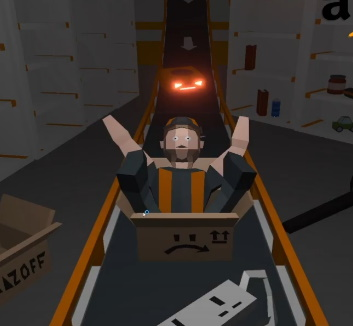
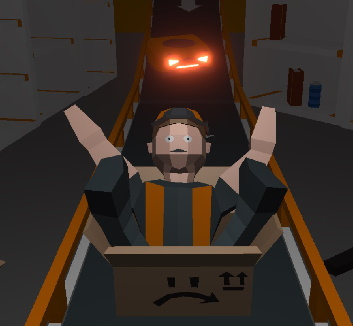
Biggest portfolio hack ever

diff --git a/index.html b/index.html
@@ -41,48 +41,79 @@
    <div id="main">
     <div class="inner">
      <header>
-      <h1>Oliver Hewison</h1>
-      <p>I am a generalist game programmer with 5 years of independent and professional experience, and a focus on Tools Programming.<br>Below, you can see a small selection of projects that I have worked on.</p>
-      <center><iframe width=50% height=380 src="https://www.youtube.com/embed/AJnnXS-TbDo" title="YouTube video player" frameborder="0" allow="accelerometer; autoplay; clipboard-write; encrypted-media; gyroscope; picture-in-picture" allowfullscreen></iframe></center>
+      <a href="#"><h1>Oliver Hewison</h1></a>
+      <p>
+        I am a variety programmer, currently working on an unannounced title at <a href="https://www.fridaysundae.com/" target="_blank">Friday Sundae Studio</a>.<br>
+        I primarily write Systems & Tools for Unity, and also enjoy a hint of Engine & Graphics code on the side.<br>
+        This is my website and portfolio, where you can see some of my past and current personal projects.
+      </p>
      </header>
-     <section class="tiles">
      
-    
-    <article>
-   	<span class="image">
-   	 <img src="images/portfolio/earth_streamer.gif" alt="" />
-   	</span>
-   	<a href="https://www.youtube.com/watch?v=BgwN9NRJbtc&t=1s" target="_blank">
-   	 <h2>Earth Streamer</h2>
-   	 <div class="content">
-   	  <p>Dynamically streaming OpenStreetMap and NASA data in real-time for a flight simulator.</p>
-   	 </div>
-   	</a>
-   	</article>
-    
-    <article>
-   	<span class="image">
-   	 <img src="images/portfolio/kojima.gif" alt="" />
-   	</span>
-   	<a href="#">
-   	 <h2>Kojima Wars</h2>
-   	 <div class="content">
-   	  <p>A modern reimagining of Herzog Zwei.<br>Made with a team of 40+ in Unity.<br>My roles include bespoke editor tools programming, shader programming, and environment art.</p>
-   	 </div>
-   	</a>
-   	</article>
-   	
+     <h2>Global Game Jam (2019-2023) - 48h</h2>
+     <section class="tiles">
       <article>
-       <span class="image">
-        <img src="images/portfolio/level_completability.jpg" alt="" />
-       </span>
-       <a href="https://github.com/olihewi/CompletabilityDetection" target="_blank">
-        <h2>Level Completability Detection</h2>
+        <span class="image"><img src="images/portfolio/rootvegroll.jpg"/></span>
+        <a href="https://olihewi.itch.io/root-veg-roll" target="_blank">
+        <h2><img src="images/portfolio/rootvegroll_logo.png" alt="Root Veg Roll"/></h2>
         <div class="content">
-         <p>Bespoke Unity Editor tools designed for rapid level prototyping, completability detection, and pathfinding.</p>
+          <p>Maniacally roll various root vegetables through a kitchen full of obstacles to escape through the window!<br><b>Play in your browser on itch.io!</b></p>
         </div>
-       </a>
+        </a>
       </article>
+      <article>
+        <span class="image"><img src="images/portfolio/vampireshangover.jpg"/></span>
+        <a href="https://olihewi.itch.io/vampires-hangover" target="_blank">
+        <h2><img src="images/portfolio/vampireshangover_logo.png" alt="Vampire's Hangover"/></h2>
+        <div class="content">
+          <p>A drunken vampire comes home to all of his hideous pets escaping their cages! Solve puzzles to put them back and get a good day's sleep.<br><b>Play in your browser on itch.io!</b></p>
+        </div>
+        </a>
+      </article>
+      <article>
+        <span class="image"><img src="images/portfolio/amazoff.jpg"/></span>
+        <a href="https://olihewi.itch.io/amazoff-lost-and-found" target="_blank">
+        <h2><img src="images/portfolio/amazoff_logo.png" alt="Amazoff Lost & Found"/></h2>
+        <div class="content">
+          <p>Welcome to the Amazoff Customer Fulfilment Centre! There's been a shift of management, bodies moving in and out, but that's above your paygrade anyway.<br><b>Play in your browser on itch.io!</b></p>
+        </div>
+        </a>
+      </article>
+      <article>
+        <span class="image"><img src="images/portfolio/flynnstarchad.jpg"/></span>
+        <a href="https://olihewi.itch.io/flynn-starchad" target="_blank">
+        <h2><img src="images/portfolio/flynnstarchad_logo.png" alt="Flynn Starchad"/></h2>
+        <div class="content">
+          <p>Blast yourself around broken-down spaceships using the recoil of Flynn's Grepair Gun, alternating shots of destruction and repair pellets to fix ships.<br><b>Play in your browser on itch.io!</b></p>
+        </div>
+        </a>
+      </article>
+     </section>
+     
+     <h2>UWE - Games Technology (2019-2022)</h2>
+     <section class="tiles">
+    
+      <article>
+        <span class="image"><img src="images/portfolio/earth_streamer.png" alt="" /></span>
+        <a href="https://www.youtube.com/watch?v=BgwN9NRJbtc&t=1s" target="_blank">
+        <h2><img src="images/portfolio/earthstreamer_logo.png" alt="Earth Streamer"/></h2>
+        <div class="content">
+          <p>Dynamically streaming OpenStreetMap and NASA data in real-time for a flight simulator.</p>
+        </div>
+        </a>
+      </article>
+      
+      <article>
+        <span class="image">
+        <img src="images/portfolio/kojimawars.jpg" alt="" />
+        </span>
+        <a href="#">
+        <h2><img src="images/portfolio/kojimawars_logo.png" alt="Root Veg Roll"/></h2>
+        <div class="content">
+          <p>A modern reimagining of Herzog Zwei.<br>Made with a team of 40+ in Unity.<br>My roles include bespoke editor tools programming, shader programming, and environment art.</p>
+        </div>
+        </a>
+      </article>
+   	
       
       <!-- <article>
        <span class="image">
@@ -98,10 +129,10 @@
       
       <article>
        <span class="image">
-        <img src="images/portfolio/super_funky_ball.gif" alt="" />
+        <img src="images/portfolio/super_funky_ball.jpg" alt="" />
        </span>
        <a href="https://github.com/olihewi/SuperFunkyBall" target="_blank">
-        <h2>Super Funky Ball</h2>
+        <h2><img src="images/portfolio/superfunkyball_logo.png" alt="Super Funky Ball"/></h2>
         <div class="content">
          <p>A Monkey Ball clone, built in DirectX.<br>Features a physics engine, data-driven level loading, and a rendering pipeline.</p>
         </div>
@@ -110,10 +141,10 @@
 	  
 	  <article>
    	<span class="image">
-   	 <img src="images/portfolio/spellcasters.png" alt="" />
+   	 <img src="images/portfolio/spellcasters.jpg" alt="" />
    	</span>
    	<a href="#">
-   	 <h2>Spellcasters</h2>
+        <h2><img src="images/portfolio/spellcasters_logo.png" alt="Spellcasters"/></h2>
    	 <div class="content">
    	  <p>A custom hexagon-based Visual Programming Language, used as a Gameplay Mechanic to teach game programming concepts to non-coders.</p>
    	 </div>
@@ -147,17 +178,29 @@
       
       <article>
        <span class="image">
-        <img src="images/portfolio/netscape.gif" alt="" />
+        <img src="images/portfolio/netscape.jpg" alt="" />
        </span>
        <a href="https://github.com/olihewi/NetScape" target="_blank">
-        <h2>NetScape</h2>
+        <h2><img src="images/portfolio/netscape_logo.png" alt="NetScape"/></h2>
         <div class="content">
          <p>A 4-player multiplayer top-down arena shooter in OpenGL / C++.<br>My roles included the creation of a data-driven level editor, custom input system, and camera system.</p>
         </div>
        </a>
       </article>
       
-      <article>
+      <!--<article>
+       <span class="image">
+        <img src="images/portfolio/level_completability.jpg" alt="" />
+       </span>
+       <a href="https://github.com/olihewi/CompletabilityDetection" target="_blank">
+        <h2>Level Completability Detection</h2>
+        <div class="content">
+         <p>Bespoke Unity Editor tools designed for rapid level prototyping, completability detection, and pathfinding.</p>
+        </div>
+       </a>
+      </article>-->
+      
+      <!--<article>
        <span class="image">
         <img src="images/portfolio/super_shmup_maker.jpg" alt="" />
        </span>
@@ -167,7 +210,7 @@
          <p>A Data-Driven DirectX game engine written in C++, allowing designers to create their own shoot-'em-up games.</p>
         </div>
        </a>
-      </article>
+      </article>-->
       
       <!-- <article>
        <span class="image">
@@ -181,7 +224,7 @@
        </a>
       </article> -->
       
-      <article>
+      <!--<article>
        <span class="image">
         <img src="images/portfolio/connect_four.gif" alt="" />
        </span>
@@ -191,7 +234,7 @@
          <p>An online multiplayer C++ Connect Four game with online lobbies, custom gamemodes and AI play.</p>
         </div>
        </a>
-      </article>
+      </article>-->
       
       <!-- <article>
        <span class="image">
@@ -207,10 +250,10 @@
       
       <article>
        <span class="image">
-        <img src="images/portfolio/blocky.gif" alt="" />
+        <img src="images/portfolio/blocky.jpg" alt="" />
        </span>
        <a href="https://github.com/olihewi/blocky-unity" target="_blank">
-        <h2>Blocky</h2>
+        <h2><img src="images/portfolio/blocky_logo.png" alt="Blocky"/></h2>
         <div class="content">
          <p>A highly data-driven voxel terrain generation framework for Unity and Godot.</p>
         </div>

diff --git a/assets/css/main.css b/assets/css/main.css
@@ -2734,9 +2734,12 @@ input, select, textarea {
 				opacity: 1;
 			}
 
-		* + .tiles {
+		/* + .tiles {
 			margin-top: 2em;
-		}
+		}*/
+    .tiles + * {
+      margin-top: 2em;
+    }
 
 		body.is-preload .tiles article {
 			-moz-transform: scale(0.9);
